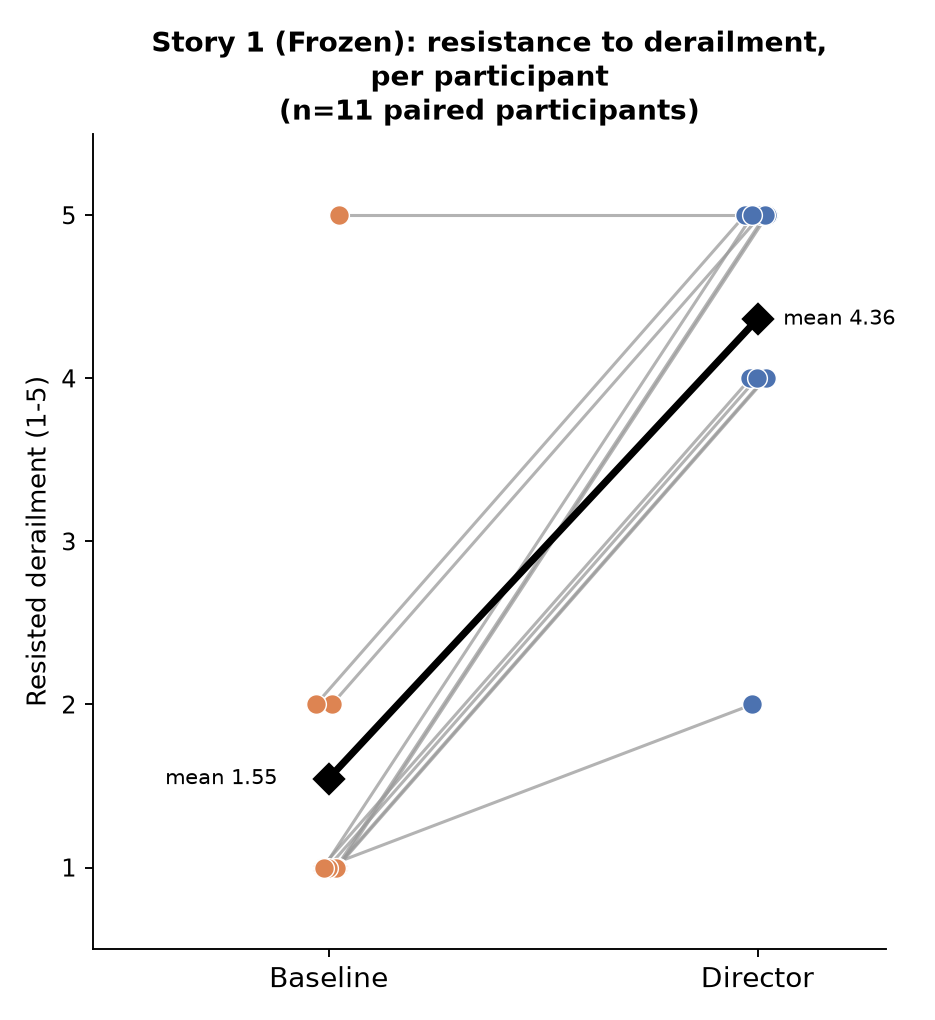
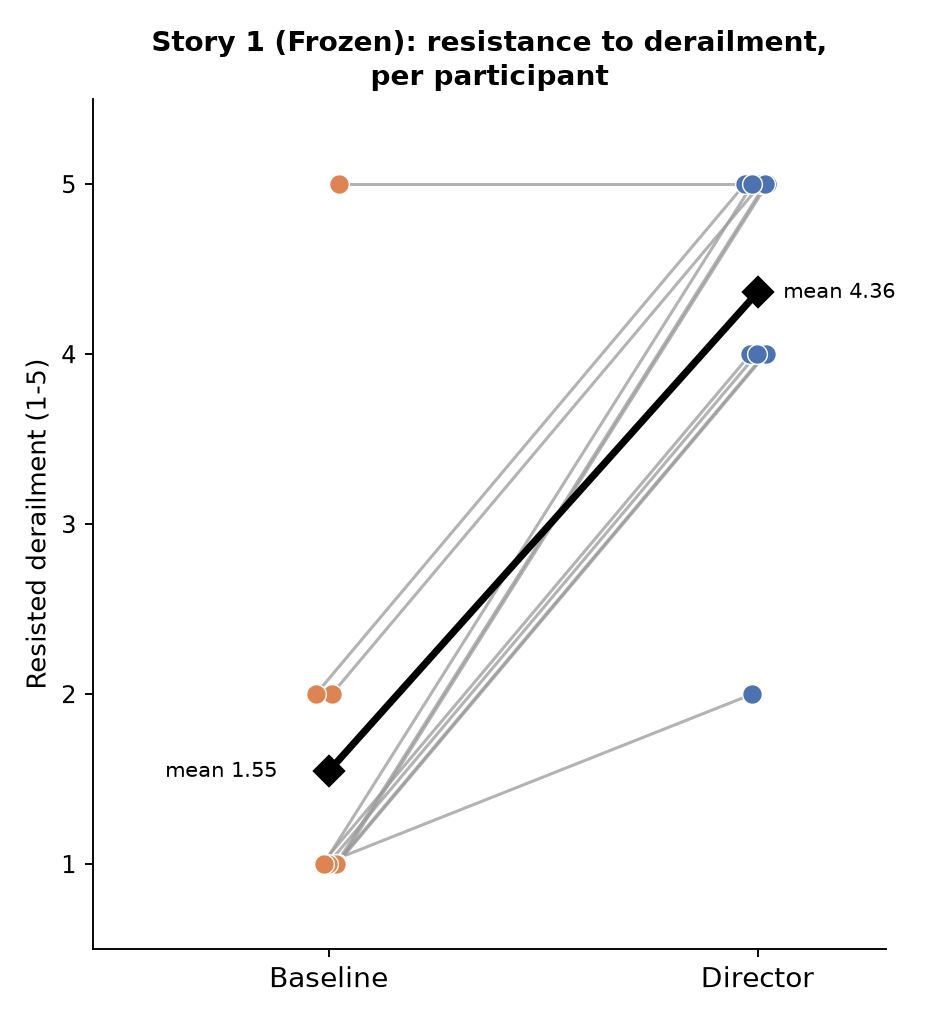
Replace Story 1 paired derailment plot; use 12 derailers consistently
Claude-Session: https://claude.ai/code/session_01M93oRevghLswnboshza7Lk

diff --git a/latex/tex/results.tex b/latex/tex/results.tex
@@ -40,12 +40,12 @@ Resisted derailment (Q5a) & 4.42 $\pm$ 0.90 & 1.58 $\pm$ 1.16 & 11 & \textbf{0.0
 
 Coherence and derailment resistance are the two effects that hold up cleanly: both $p \le 0.002$, both roughly a two-point gap on a five-point scale. Derailment resistance (Q5a) is only asked when a participant reports trying to derail. 12 of the 14 did so in each condition, and the means are over these 12. The paired test needs an answer in both rounds, which 11 participants gave, so it uses $n$=11. Engagement moves the same way but more weakly (\pval{0.036}); overall rating trends the same direction (3.57 vs.\ 2.93) but does not reach significance at $n$=14 (\pval{0.12}). Staying in character is the one measure that looks the same either way (4.29 vs.\ 4.00, \pval{0.40}). Olaf keeps his voice under baseline too. What baseline loses is the plot, not the persona.
 
-Looking more closely at interruption handling in Story 1, the derailment-attempt rate was almost identical across conditions: 11 of 14 baseline rounds and 11 of 14 director rounds recorded ``yes, I tried to derail''. The gap below therefore reflects how Olaf responded. Participants were encouraged to derail the story but not forced to (Figure~\ref{fig:study-welcome}), which is why not every round includes an attempt.
+Looking more closely at interruption handling in Story 1, the derailment-attempt rate was almost identical across conditions: 12 of 14 baseline rounds and 12 of 14 director rounds recorded ``yes, I tried to derail''. The gap below therefore reflects how Olaf responded. Participants were encouraged to derail the story but not forced to (Figure~\ref{fig:study-welcome}), which is why not every round includes an attempt.
 
 \begin{figure}[htbp]
 \centering
 \includegraphics[width=0.62\linewidth]{plots/16_story1_derailment_paired.png}
-\caption{Resistance to derailment (Q5a), Story 1, one line per participant ($n$=11 paired completers). Baseline points cluster at the bottom; director points cluster at the top; all but one participant rated director higher, and the remaining one gave both conditions the maximum score.}
+\caption{Resistance to derailment (Q5a), Story 1, one line per participant. Of the 12 participants who tried to derail in each condition, the 11 who answered in both rounds are shown. Baseline points cluster at the bottom; director points cluster at the top; all but one participant rated director higher, and the remaining one gave both conditions the maximum score.}
 \label{fig:story1-paired}
 \end{figure}
 
